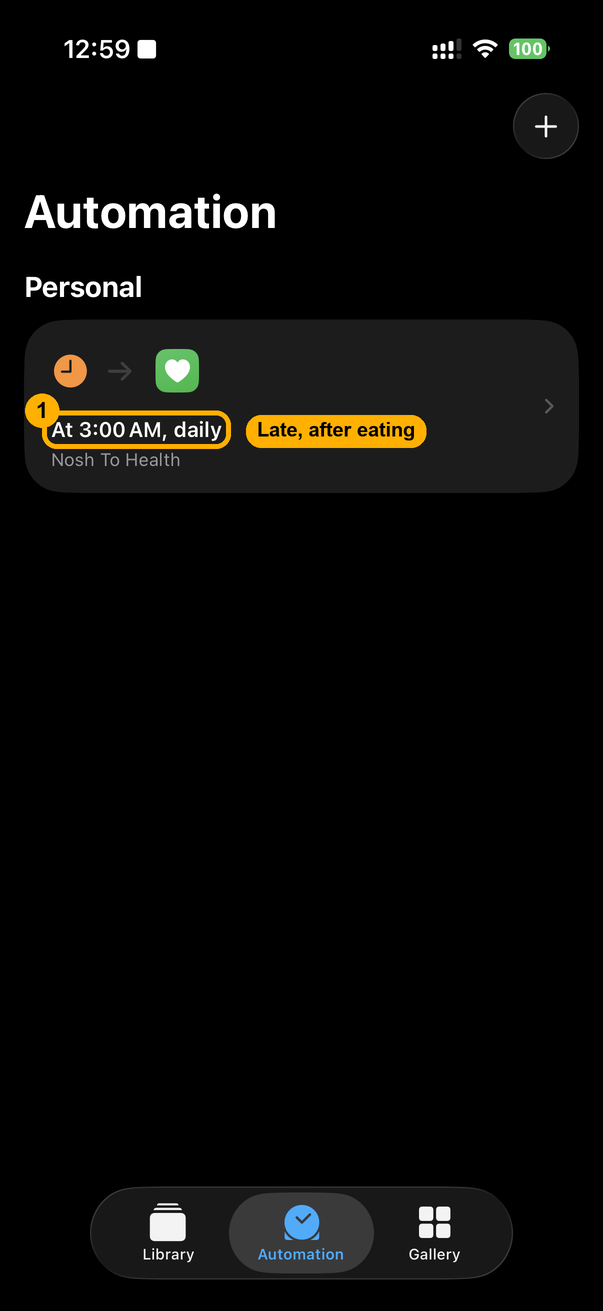
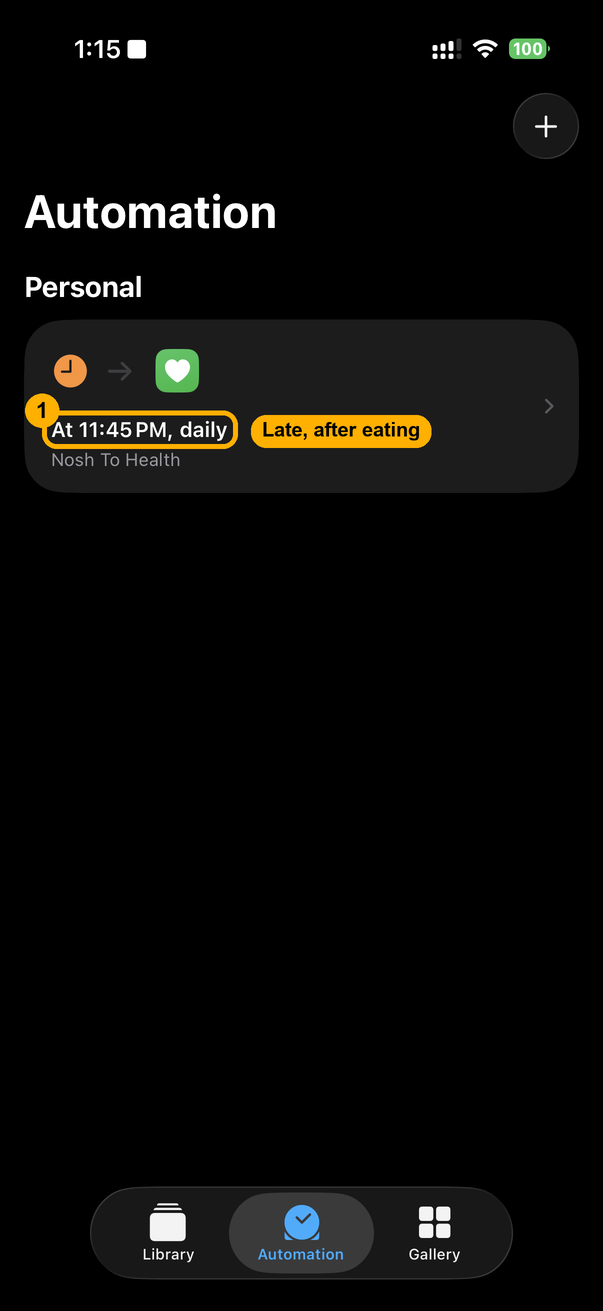
Use 11:45 PM as the example automation time
The Shortcut sends the current date's totals, so the latest time that
still falls on the same day leaves the most of the evening to log in.
Swap the screenshot for one set to 11:45 PM.

Claude-Session: https://claude.ai/code/session_01PhW9AVPZgRqGakAyZZrwKH

Changed region(s): [[0.1194, 0.3051, 0.7164, 0.3661], [0.0896, 0.0305, 0.2687, 0.061]]

diff --git a/README.md b/README.md
@@ -320,7 +320,7 @@ delete that action and drag it in again.
 
 To run it every night, add an automation in the Automation tab. Choose *Time
 of Day*, set a time late in the evening once you're done eating for the day
-(11:30 PM, say), pick *Run Immediately*, and choose *Nosh to Health*. The first
+(11:45 PM, say), pick *Run Immediately*, and choose *Nosh to Health*. The first
 run asks permission to write each type to Health.
 
 <img src="images/shortcut-automation.png" width="300" alt="The Automation tab in Shortcuts, with the time of day highlighted: set it late in the evening, after the day's eating is done.">
